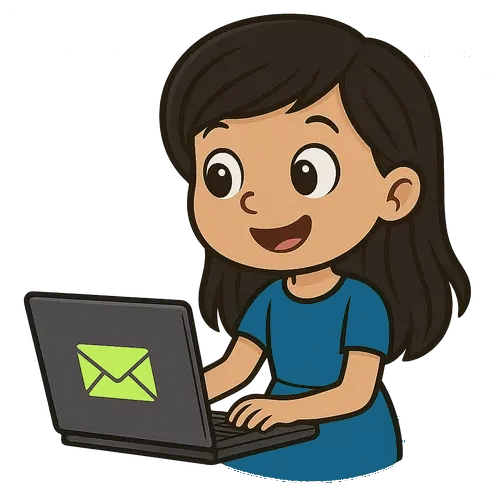
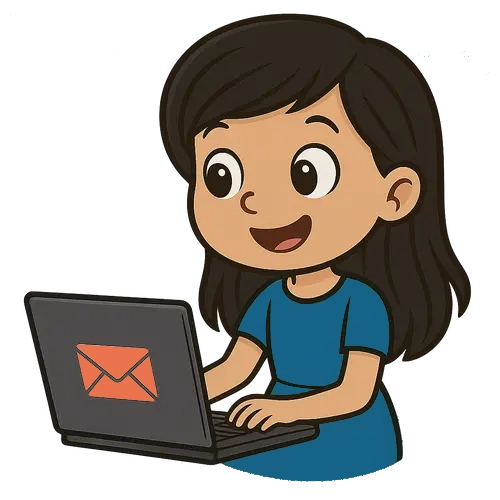
changed accent color

Changed region(s): [[0.15, 0.69, 0.33, 0.81]]

diff --git a/src/components/Navbar.tsx b/src/components/Navbar.tsx
@@ -2,6 +2,7 @@
 import Link from 'next/link';
 import CopyrightLineIcon from 'remixicon-react/CopyrightLineIcon';
 import { navbarData } from '@/data/app-data';
+import Image from 'next/image';
 
 interface NavbarProps {
   id: string;
@@ -14,15 +15,20 @@ const Navbar = ({ id }: NavbarProps) => {
                  border-r border-gray-200 px-4 py-10 max-xl:py-6 z-10"
     >
       <Link href="/#home">
-        <span className="text-3xl font-semibold bg-gradient-to-t from-sky-600 to-lime-300 text-transparent bg-clip-text">
-          J.
-        </span>
-        <span
-          className="block w-min rotate-90 origin-bottom text-[12px] font-semibold
-                     dark:text-white transition-colors"
-        >
-          Vukicevic
-        </span>
+        <Image
+          src={'/logo-white.png'}
+          alt="Logo image"
+          width={36}
+          height={36}
+          className="w-[36px] hidden dark:block"
+        />
+        <Image
+          src={'/logo_black.png'}
+          alt="Logo image"
+          width={36}
+          height={36}
+          className="w-[36px] block dark:hidden"
+        />
       </Link>
       <div className="flex flex-col gap-y-3 max-xl:gap-y-1 max-sm:gap-y-2 max-xs:gap-y-0">
         {navbarData.map((item, index) => (
@@ -35,7 +41,7 @@ const Navbar = ({ id }: NavbarProps) => {
               className={`text-2xl group-hover:scale-125 max-xl:group-hover:scale-115 
                           max-xs:group-hover:scale-100 transition-all ${
                             item.id === id
-                              ? 'text-lime-400 dark:text-lime-300 scale-110 max-xl:scale-100 max-xs:scale-80'
+                              ? 'text-burnt-sienna-400 dark:text-burnt-sienna-400 scale-110 max-xl:scale-100 max-xs:scale-80'
                               : 'text-sky-400 scale-100 max-xl:scale-90 max-xs:scale-70'
                           }`}
             >
@@ -55,10 +61,10 @@ const Navbar = ({ id }: NavbarProps) => {
       </div>
       <p className="flex items-center justify-center text-[13px] max-xs:text-[11px] text-gray-500 mt-6">
         <span
-          className="absolute left-1/2 w-max flex items-center -rotate-90 origin-bottom-left
+          className="w-max flex items-center -rotate-90 -translate-y-4
                      tracking-wider dark:text-gray-200 transition-colors"
         >
-          <CopyrightLineIcon />
+          <CopyrightLineIcon size={16} />
           &nbsp;{new Date().getFullYear()}
         </span>
       </p>

diff --git a/src/components/theme/ThemeToggle.tsx b/src/components/theme/ThemeToggle.tsx
@@ -59,7 +59,7 @@ const ThemeToggle = ({ children }: ThemeToggleProps) => {
         >
           <button
             onClick={toggleDarkTheme}
-            className="fixed right-14 max-sm:right-10 top-10 text-lime-400 dark:text-lime-300 z-40"
+            className="fixed right-14 max-sm:right-10 top-10 text-burnt-sienna-400 hover:text-burnt-sienna-500 z-40"
           >
             <motion.span
               animate={{ scale: darkTheme ? 0 : 1 }}

diff --git a/src/components/Hero.tsx b/src/components/Hero.tsx
@@ -83,7 +83,7 @@ const Hero = () => {
             <Link
               href={url}
               key={index}
-              className="rounded-lg dark:hover:text-lime-300 hover:text-lime-400 transition-colors"
+              className="rounded-lg dark:hover:text-burnt-sienna-400 hover:text-burnt-sienna-400 transition-colors"
             >
               {icon}
             </Link>

diff --git a/src/app/globals.css b/src/app/globals.css
@@ -7,6 +7,9 @@
     --breakpoint-md: 767px;
     --breakpoint-sm: 639px;
     --breakpoint-xs: 393px;
+
+    --color-burnt-sienna-400: #eb734f;
+    --color-burnt-sienna-500: #e64e29;
 }
 
 html {
